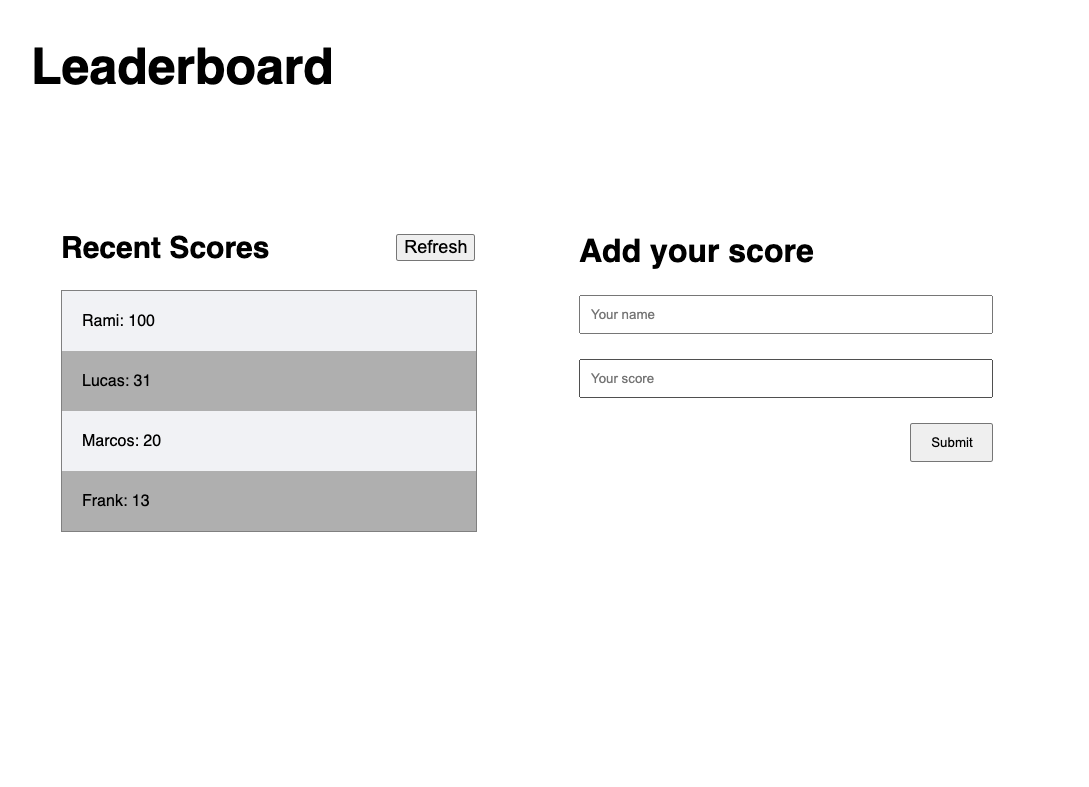
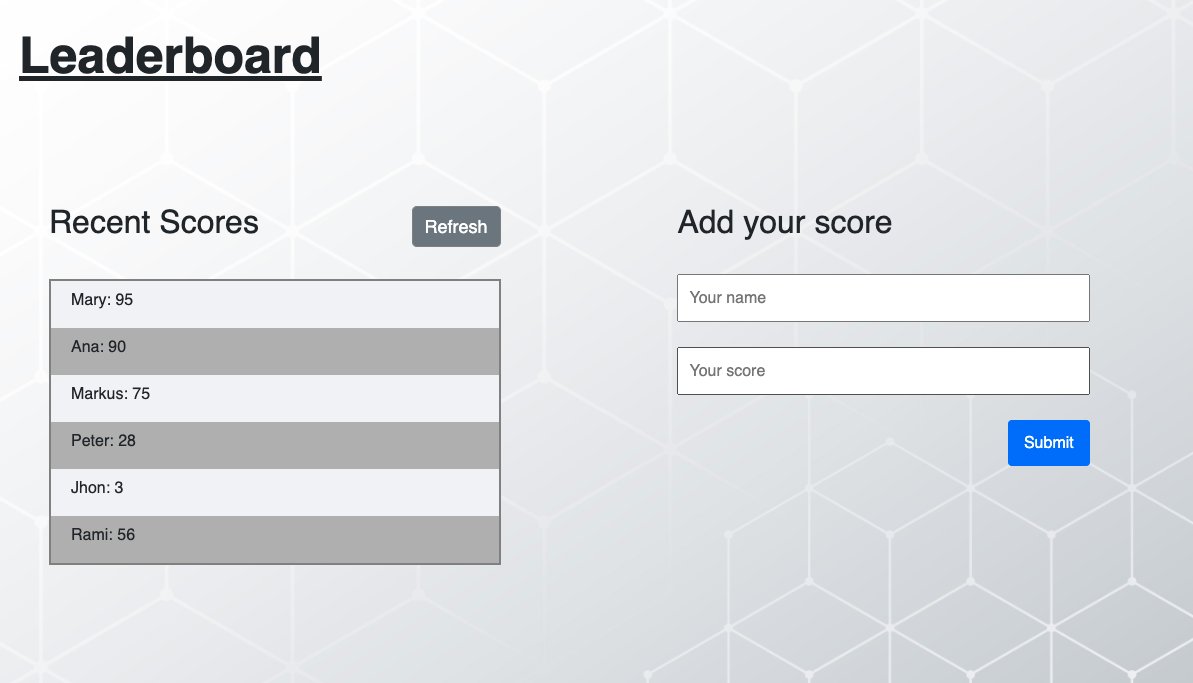
Add styling for submit and refresh btns. Add background img to html body. Add alert to notice when a player is created. Add timeOutClose() to close the alert after 2 seconds. Add new img to README.md file.

diff --git a/dist/main.js b/dist/main.js
@@ -16,7 +16,7 @@
   \*************************************************************/
 /***/ ((module, __webpack_exports__, __webpack_require__) => {
 
-eval("__webpack_require__.r(__webpack_exports__);\n/* harmony export */ __webpack_require__.d(__webpack_exports__, {\n/* harmony export */   \"default\": () => (__WEBPACK_DEFAULT_EXPORT__)\n/* harmony export */ });\n/* harmony import */ var _node_modules_css_loader_dist_runtime_noSourceMaps_js__WEBPACK_IMPORTED_MODULE_0__ = __webpack_require__(/*! ../node_modules/css-loader/dist/runtime/noSourceMaps.js */ \"./node_modules/css-loader/dist/runtime/noSourceMaps.js\");\n/* harmony import */ var _node_modules_css_loader_dist_runtime_noSourceMaps_js__WEBPACK_IMPORTED_MODULE_0___default = /*#__PURE__*/__webpack_require__.n(_node_modules_css_loader_dist_runtime_noSourceMaps_js__WEBPACK_IMPORTED_MODULE_0__);\n/* harmony import */ var _node_modules_css_loader_dist_runtime_api_js__WEBPACK_IMPORTED_MODULE_1__ = __webpack_require__(/*! ../node_modules/css-loader/dist/runtime/api.js */ \"./node_modules/css-loader/dist/runtime/api.js\");\n/* harmony import */ var _node_modules_css_loader_dist_runtime_api_js__WEBPACK_IMPORTED_MODULE_1___default = /*#__PURE__*/__webpack_require__.n(_node_modules_css_loader_dist_runtime_api_js__WEBPACK_IMPORTED_MODULE_1__);\n// Imports\n\n\nvar ___CSS_LOADER_EXPORT___ = _node_modules_css_loader_dist_runtime_api_js__WEBPACK_IMPORTED_MODULE_1___default()((_node_modules_css_loader_dist_runtime_noSourceMaps_js__WEBPACK_IMPORTED_MODULE_0___default()));\n// Module\n___CSS_LOADER_EXPORT___.push([module.id, \"body {\\n  display: flex;\\n  flex-direction: column;\\n  font-family: sans-serif;\\n  background-color: #f1f2f5;\\n}\\n\\n.dflex {\\n  display:flex;\\n}\\n\\n.title-container {\\n  font-size: 40px;\\n  margin: 40px;\\n}\\n\\n.main-container {\\n  flex-direction: row;\\n  margin: 70px;\\n}\\n\", \"\"]);\n// Exports\n/* harmony default export */ const __WEBPACK_DEFAULT_EXPORT__ = (___CSS_LOADER_EXPORT___);\n\n\n//# sourceURL=webpack://leadboard-website/./src/style.css?./node_modules/css-loader/dist/cjs.js");
+eval("__webpack_require__.r(__webpack_exports__);\n/* harmony export */ __webpack_require__.d(__webpack_exports__, {\n/* harmony export */   \"default\": () => (__WEBPACK_DEFAULT_EXPORT__)\n/* harmony export */ });\n/* harmony import */ var _node_modules_css_loader_dist_runtime_noSourceMaps_js__WEBPACK_IMPORTED_MODULE_0__ = __webpack_require__(/*! ../node_modules/css-loader/dist/runtime/noSourceMaps.js */ \"./node_modules/css-loader/dist/runtime/noSourceMaps.js\");\n/* harmony import */ var _node_modules_css_loader_dist_runtime_noSourceMaps_js__WEBPACK_IMPORTED_MODULE_0___default = /*#__PURE__*/__webpack_require__.n(_node_modules_css_loader_dist_runtime_noSourceMaps_js__WEBPACK_IMPORTED_MODULE_0__);\n/* harmony import */ var _node_modules_css_loader_dist_runtime_api_js__WEBPACK_IMPORTED_MODULE_1__ = __webpack_require__(/*! ../node_modules/css-loader/dist/runtime/api.js */ \"./node_modules/css-loader/dist/runtime/api.js\");\n/* harmony import */ var _node_modules_css_loader_dist_runtime_api_js__WEBPACK_IMPORTED_MODULE_1___default = /*#__PURE__*/__webpack_require__.n(_node_modules_css_loader_dist_runtime_api_js__WEBPACK_IMPORTED_MODULE_1__);\n// Imports\n\n\nvar ___CSS_LOADER_EXPORT___ = _node_modules_css_loader_dist_runtime_api_js__WEBPACK_IMPORTED_MODULE_1___default()((_node_modules_css_loader_dist_runtime_noSourceMaps_js__WEBPACK_IMPORTED_MODULE_0___default()));\n// Module\n___CSS_LOADER_EXPORT___.push([module.id, \"body {\\n  display: flex;\\n  flex-direction: column;\\n  font-family: sans-serif;\\n}\\n\\n.dflex {\\n  display: flex;\\n}\\n\\n.d-none {\\n  display: none;\\n}\\n\\n.title-container {\\n  font-size: 50px;\\n  font-weight: bold;\\n  margin: 40px;\\n}\\n\\n.main-container {\\n  flex-direction: row;\\n  margin: 70px 50px;\\n}\\n\\n.list-container {\\n  width: 40%;\\n  flex-direction: column;\\n  padding-left: 20px;\\n}\\n\\n.leadbord-list {\\n  flex-direction: column;\\n  border: 1px solid grey;\\n  padding: 0;\\n  margin: 0;\\n  width: 100%;\\n}\\n\\n.leadbord-list li {\\n  list-style: none;\\n  padding: 5px;\\n  padding-left: 20px;\\n}\\n\\n.leadbord-list h3 {\\n  font-size: 16px;\\n  font-weight: 500;\\n}\\n\\n.white-row {\\n  background-color: #f1f2f5;\\n}\\n\\n.grey-row {\\n  background-color: rgb(175, 175, 175);\\n}\\n\\n.list-header {\\n  justify-content: space-between;\\n  font-size: 20px;\\n}\\n\\n.refresh-btn {\\n  align-self: center;\\n  font-size: 18px;\\n}\\n\\n.add-container {\\n  flex-direction: column;\\n  padding-left: 10%;\\n  width: 40%;\\n}\\n\\n.add-form {\\n  flex-direction: column;\\n  width: 100%;\\n}\\n\\n.add-title {\\n  font-size: 2rem;\\n}\\n\\n.add-form input {\\n  margin: 0;\\n  margin-bottom: 25px;\\n  padding: 10px;\\n}\\n\\n.add-form button {\\n  padding: 10px;\\n  width: 20%;\\n  margin: 0;\\n  margin-left: 80%;\\n}\\n\", \"\"]);\n// Exports\n/* harmony default export */ const __WEBPACK_DEFAULT_EXPORT__ = (___CSS_LOADER_EXPORT___);\n\n\n//# sourceURL=webpack://leadboard-website/./src/style.css?./node_modules/css-loader/dist/cjs.js");
 
 /***/ }),
 
@@ -116,7 +116,17 @@ eval("\n\n/* istanbul ignore next  */\nfunction styleTagTransform(css, styleElem
   \**********************/
 /***/ ((__unused_webpack_module, __webpack_exports__, __webpack_require__) => {
 
-eval("__webpack_require__.r(__webpack_exports__);\n/* harmony import */ var _style_css__WEBPACK_IMPORTED_MODULE_0__ = __webpack_require__(/*! ./style.css */ \"./src/style.css\");\n\n\nuser1 = {\n  name: 'Rami',\n  score: 100,\n};\n\nuser2 = {\n  name: 'Lucas',\n  score: 31,\n};\n\nuser3 = {\n  name: 'Marcos',\n  score: 20,\n};\n\nuser4 = {\n  name: 'Frank',\n  score: 13,\n};\n\nconst leadboard = [user1,user2,user3,user4];\nconst listContainer = document.querySelector('.list-container');\nconst leadboardList = document.createElement('ul');\n\nlistContainer.appendChild(leadboard);\n\nleadboard.forEach((user) => {\n\n  const li = document.createElement('li');\n  const h3 = document.createElement('h3');\n\n  h3.innerText = user.name + ': ' + user.score;\n\n  li.appendChild(h3);\n  leadboardList.appendChild(li)\n\n})\n\n\n//# sourceURL=webpack://leadboard-website/./src/index.js?");
+eval("__webpack_require__.r(__webpack_exports__);\n/* harmony import */ var _style_css__WEBPACK_IMPORTED_MODULE_0__ = __webpack_require__(/*! ./style.css */ \"./src/style.css\");\n/* harmony import */ var _leadboardAPI__WEBPACK_IMPORTED_MODULE_1__ = __webpack_require__(/*! ./leadboardAPI */ \"./src/leadboardAPI.js\");\n\n\n\nconst gameID = 'JxURczUS4w2xJdOpfmIm';\n\nconst leadboard = [];\n\nasync function displayList(leadboard, ul) {\n  while (ul.hasChildNodes()) ul.removeChild(ul.firstChild);\n  await _leadboardAPI__WEBPACK_IMPORTED_MODULE_1__[\"default\"].refreshData(gameID).then((data) => {\n    leadboard = data.result;\n  });\n  leadboard.forEach((player, index) => {\n    const li = document.createElement('li');\n    const h3 = document.createElement('h3');\n\n    if (index % 2 === 0) {\n      li.classList.add('white-row');\n    } else {\n      li.classList.add('grey-row');\n    }\n\n    h3.innerText = `${player.user}: ${player.score}`;\n\n    li.appendChild(h3);\n\n    ul.appendChild(li);\n  });\n}\n\ndocument.addEventListener('DOMContentLoaded', () => {\n  const listContainer = document.querySelector('.list-container');\n\n  const leadboardList = document.createElement('ul');\n\n  const listTitleContainer = document.createElement('div');\n  const listTitle = document.createElement('h2');\n  const refreshBtn = document.createElement('button');\n\n  leadboardList.classList.add('dflex');\n  leadboardList.classList.add('leadbord-list');\n  listTitleContainer.classList.add('dflex');\n  listTitleContainer.classList.add('list-header');\n  refreshBtn.classList.add('refresh-btn');\n\n  listTitle.innerText = 'Recent Scores';\n  refreshBtn.innerText = 'Refresh';\n\n  refreshBtn.addEventListener('click', () => {\n    _leadboardAPI__WEBPACK_IMPORTED_MODULE_1__[\"default\"].refreshData(gameID);\n    displayList(leadboard, leadboardList);\n  });\n\n  listTitleContainer.appendChild(listTitle);\n  listTitleContainer.appendChild(refreshBtn);\n\n  listContainer.appendChild(listTitleContainer);\n  listContainer.appendChild(leadboardList);\n\n  const addContainer = document.querySelector('.add-container');\n\n  const addForm = document.createElement('form');\n  const addTitle = document.createElement('h2');\n  const nameInput = document.createElement('input');\n  const scoreInput = document.createElement('input');\n  const submitBtn = document.createElement('button');\n\n  addTitle.innerText = 'Add your score';\n  nameInput.placeholder = 'Your name';\n  scoreInput.placeholder = 'Your score';\n  submitBtn.innerText = 'Submit';\n  submitBtn.type = 'button';\n  addForm.classList.add('dflex');\n  addForm.classList.add('add-form');\n  addTitle.classList.add('add-title');\n\n  submitBtn.addEventListener('click', () => {\n    _leadboardAPI__WEBPACK_IMPORTED_MODULE_1__[\"default\"].submitNewPlayer(gameID, nameInput.value, scoreInput.value);\n    nameInput.value = '';\n    scoreInput.value = '';\n  });\n\n  const divAlert = document.createElement('div');\n\n  divAlert.classList.add('alert');\n  divAlert.classList.add('alert-succes');\n  divAlert.classList.add('d-none');\n  divAlert.role = 'alert';\n  divAlert.innerHTML ='<strong>Success!</strong> You have been added successfully!';\n  addForm.append(addTitle, nameInput, scoreInput, submitBtn, divAlert);\n  addContainer.appendChild(addForm);\n\n  displayList(leadboard, leadboardList);\n});\n\nwindow.setTimeout(function () {\n  $('.alert')\n    .fadeTo(500, 0)\n    .slideUp(500, function () {\n      $(this).remove();\n    });\n});\n\n\n//# sourceURL=webpack://leadboard-website/./src/index.js?");
+
+/***/ }),
+
+/***/ "./src/leadboardAPI.js":
+/*!*****************************!*\
+  !*** ./src/leadboardAPI.js ***!
+  \*****************************/
+/***/ ((__unused_webpack_module, __webpack_exports__, __webpack_require__) => {
+
+eval("__webpack_require__.r(__webpack_exports__);\n/* harmony export */ __webpack_require__.d(__webpack_exports__, {\n/* harmony export */   \"default\": () => (__WEBPACK_DEFAULT_EXPORT__)\n/* harmony export */ });\n/* eslint-disable no-constant-condition */\nclass leadboardData {\n  static refreshData = (gameID) => new Promise((resolve, reject) => {\n    if (true) {\n      return resolve(\n        fetch(\n          `https://us-central1-js-capstone-backend.cloudfunctions.net/api/games/${gameID}/scores/`,\n        )\n          .then((response) => response.json())\n          .then((json) => json),\n      );\n    }\n    return reject(new Error('Invalid URL'));\n  });\n\n  static submitNewPlayer = (gameID, user, score) => {\n    fetch(\n      `https://us-central1-js-capstone-backend.cloudfunctions.net/api/games/${gameID}/scores/`,\n      {\n        method: 'POST',\n        body: JSON.stringify({\n          user,\n          score,\n        }),\n        headers: {\n          'Content-type': 'application/json; charset=UTF-8',\n        },\n      },\n    )\n      .then((response) => response.json())\n      .then((json) => json);\n  };\n}\n\n/* harmony default export */ const __WEBPACK_DEFAULT_EXPORT__ = (leadboardData);\n\n\n//# sourceURL=webpack://leadboard-website/./src/leadboardAPI.js?");
 
 /***/ })
 

diff --git a/src/index.js b/src/index.js
@@ -1,7 +1,7 @@
 import './style.css';
 import leadboardData from './leadboardAPI';
 
-const gameID = 'JxURczUS4w2xJdOpfmIm';
+const gameID = 'gu59d6P3oXbQx2t8pVbz';
 
 const leadboard = [];
 
@@ -28,6 +28,14 @@ async function displayList(leadboard, ul) {
   });
 }
 
+const timeoutClose = () => {
+  const alert = document.querySelector('.alert');
+  alert.classList.remove('d-none');
+  window.setTimeout(() => {
+    alert.classList.add('d-none');
+  }, 2000);
+};
+
 document.addEventListener('DOMContentLoaded', () => {
   const listContainer = document.querySelector('.list-container');
 
@@ -42,6 +50,8 @@ document.addEventListener('DOMContentLoaded', () => {
   listTitleContainer.classList.add('dflex');
   listTitleContainer.classList.add('list-header');
   refreshBtn.classList.add('refresh-btn');
+  refreshBtn.classList.add('btn');
+  refreshBtn.classList.add('btn-secondary');
 
   listTitle.innerText = 'Recent Scores';
   refreshBtn.innerText = 'Refresh';
@@ -70,6 +80,8 @@ document.addEventListener('DOMContentLoaded', () => {
   scoreInput.placeholder = 'Your score';
   submitBtn.innerText = 'Submit';
   submitBtn.type = 'button';
+  submitBtn.classList.add('btn');
+  submitBtn.classList.add('btn-primary');
   addForm.classList.add('dflex');
   addForm.classList.add('add-form');
   addTitle.classList.add('add-title');
@@ -78,9 +90,17 @@ document.addEventListener('DOMContentLoaded', () => {
     leadboardData.submitNewPlayer(gameID, nameInput.value, scoreInput.value);
     nameInput.value = '';
     scoreInput.value = '';
+    timeoutClose();
   });
 
-  addForm.append(addTitle, nameInput, scoreInput, submitBtn);
+  const divAlert = document.createElement('div');
+
+  divAlert.classList.add('alert');
+  divAlert.classList.add('alert-success');
+  divAlert.classList.add('d-none');
+  divAlert.role = 'alert';
+  divAlert.innerHTML = '<strong>Success!</strong> You have been added successfully!';
+  addForm.append(addTitle, nameInput, scoreInput, submitBtn, divAlert);
   addContainer.appendChild(addForm);
 
   displayList(leadboard, leadboardList);

diff --git a/src/style.css b/src/style.css
@@ -1,15 +1,25 @@
 body {
   display: flex;
   flex-direction: column;
+  height: 100vh;
   font-family: sans-serif;
+  background-image: url('bg-image.jpg');
+  background-repeat: no-repeat;
+  background-position: center;
+  background-size: cover;
 }
 
 .dflex {
   display: flex;
 }
 
+.d-none {
+  display: none;
+}
+
 .title-container {
   font-size: 50px;
+  text-decoration: underline;
   font-weight: bold;
   margin: 40px;
 }
@@ -27,7 +37,7 @@ body {
 
 .leadbord-list {
   flex-direction: column;
-  border: 1px solid grey;
+  border: 2px solid grey;
   padding: 0;
   margin: 0;
   width: 100%;
@@ -35,7 +45,7 @@ body {
 
 .leadbord-list li {
   list-style: none;
-  padding: 5px;
+  padding: 10px;
   padding-left: 20px;
 }
 
@@ -55,17 +65,20 @@ body {
 .list-header {
   justify-content: space-between;
   font-size: 20px;
+  margin-bottom: 30px;
 }
 
 .refresh-btn {
   align-self: center;
   font-size: 18px;
+  border: 1px solid grey;
+  border-radius: 0.3rem;
 }
 
 .add-container {
   flex-direction: column;
-  padding-left: 10%;
-  width: 40%;
+  padding-left: 15%;
+  width: 50%;
 }
 
 .add-form {
@@ -75,10 +88,10 @@ body {
 
 .add-title {
   font-size: 2rem;
+  margin-bottom: 33px;
 }
 
 .add-form input {
-  margin: 0;
   margin-bottom: 25px;
   padding: 10px;
 }
@@ -88,4 +101,8 @@ body {
   width: 20%;
   margin: 0;
   margin-left: 80%;
+}
+
+.alert {
+  margin-top: 10px;
 }

diff --git a/dist/index.html b/dist/index.html
@@ -4,13 +4,13 @@
     <meta charset="UTF-8" />
     <meta name="viewport" content="width=device-width, initial-scale=1.0" />
     <title>Interactive Leaderboard</title>
-    <link rel="stylesheet" href="style.css" />
+    <link href="https://cdn.jsdelivr.net/npm/bootstrap@5.1.1/dist/css/bootstrap.min.css" rel="stylesheet" integrity="sha384-F3w7mX95PdgyTmZZMECAngseQB83DfGTowi0iMjiWaeVhAn4FJkqJByhZMI3AhiU" crossorigin="anonymous">
 <script defer src="main.js"></script></head>
 <body>
     <header class="title-container dflex">Leaderboard</header>
     <main class="main-container dflex">
       <div class="list-container dflex"></div>
-      <div class="dflex"></div>
+      <div class="add-container dflex"></div>
     </main>
 </body>
 </html>

diff --git a/src/index.html b/src/index.html
@@ -4,6 +4,7 @@
     <meta charset="UTF-8" />
     <meta name="viewport" content="width=device-width, initial-scale=1.0" />
     <title>Interactive Leaderboard</title>
+    <link href="https://cdn.jsdelivr.net/npm/bootstrap@5.1.1/dist/css/bootstrap.min.css" rel="stylesheet" integrity="sha384-F3w7mX95PdgyTmZZMECAngseQB83DfGTowi0iMjiWaeVhAn4FJkqJByhZMI3AhiU" crossorigin="anonymous">
 </head>
 <body>
     <header class="title-container dflex">Leaderboard</header>
